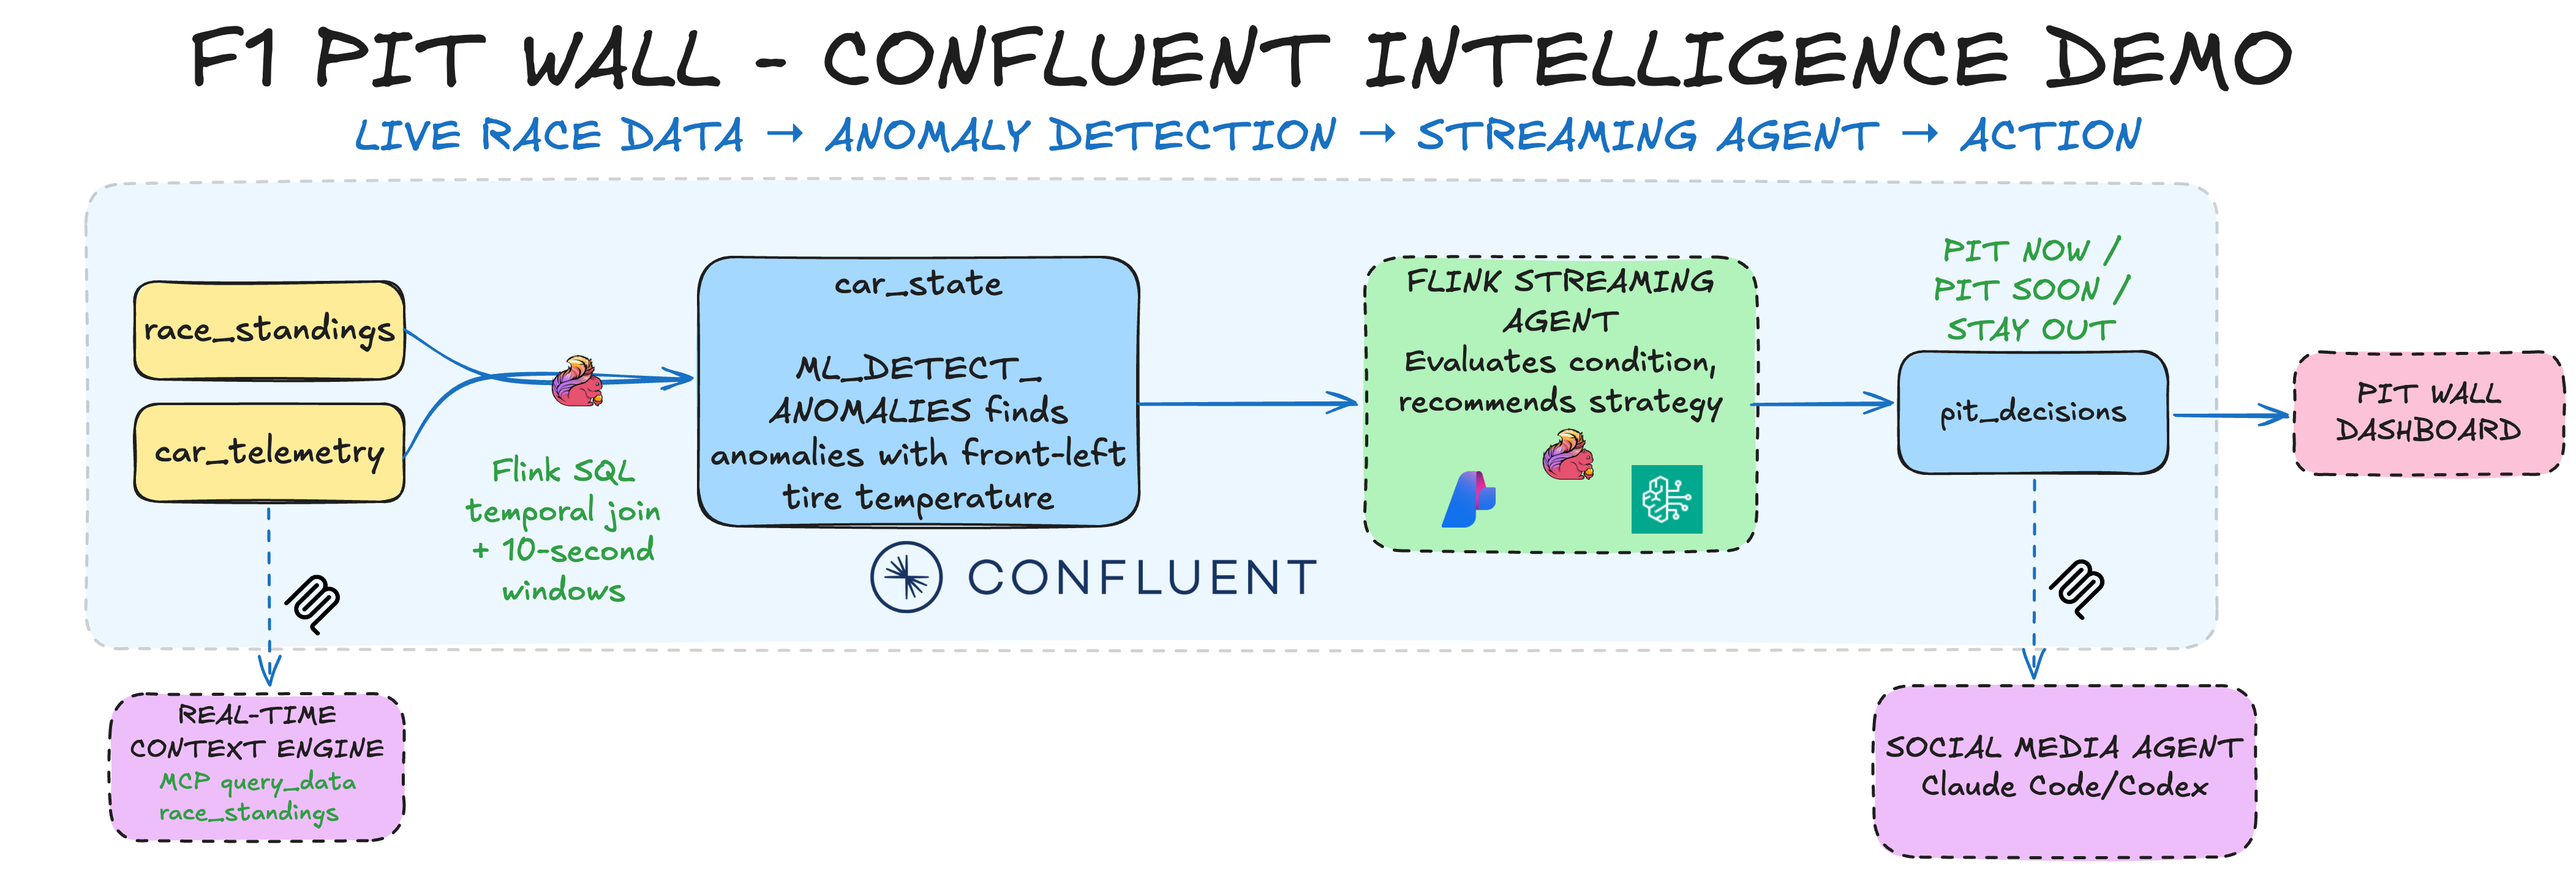
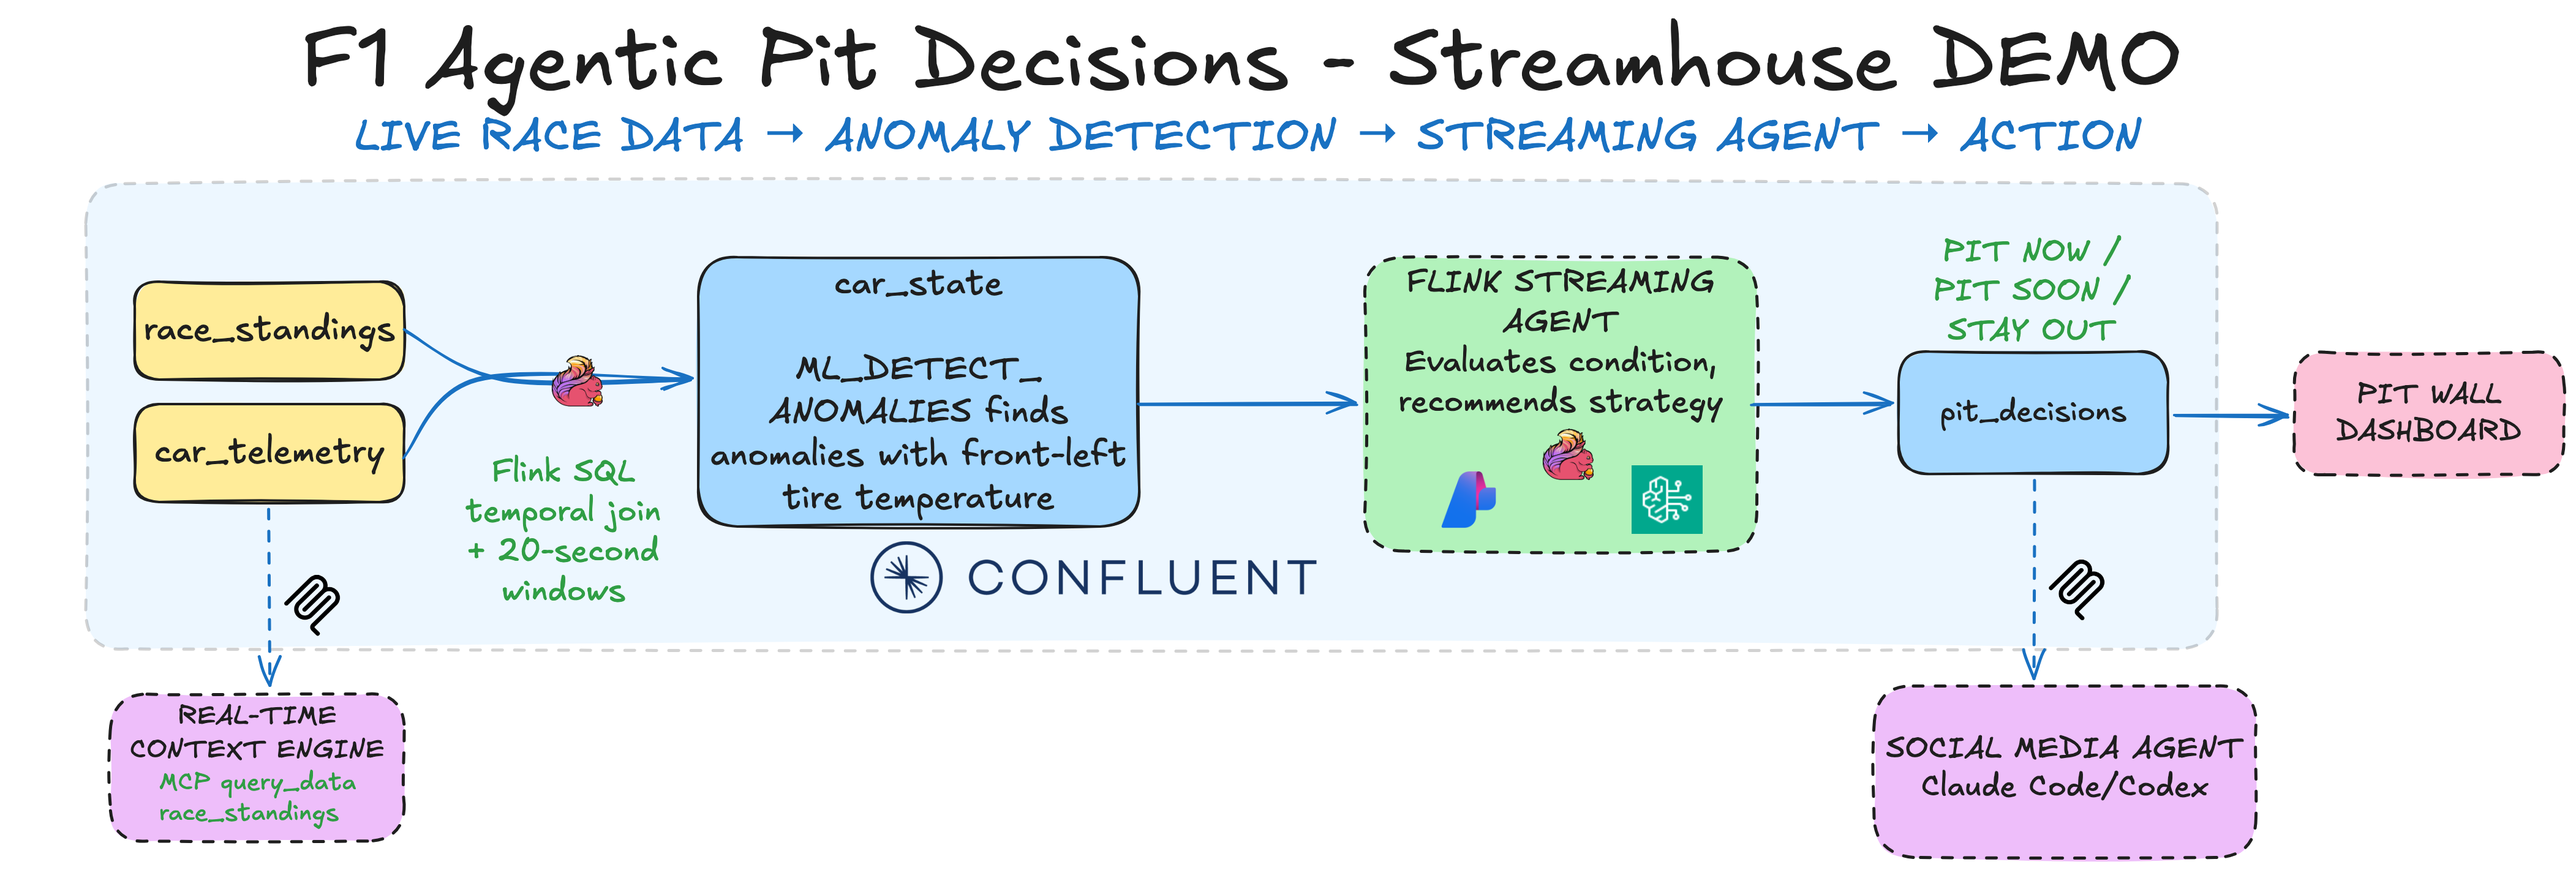
Rename the labs and tidy the Agentic Airline Operations workshop (#10)
* Drop the workshop's older RA417 map screenshot

The live telemetry screenshot right after it shows the same flight box with
the route and times, plus the telemetry attendees now see.

* Say where and why to run the RTCE connection step in Lab 4

* Point Lab 4 back to the Flink SQL workspace

* Move Lab 4's scope note to after the agent is created

By then attendees have seen the flight filter and the agent's SFO prompt
the note explains.

* Explain the three-flight filter next to impacted_passengers

* Drop the two start-agent screenshots from Lab 4

* Link the dashboard app in Lab 5

* Link Topics and name the environment and cluster in Lab 3

* Summarize the agent's prompt before its CREATE AGENT statement

* Title the labs Agentic Flight Disruptions and F1 Agentic Pit Decisions

* Rename the airline lab to Agentic Airline Operations

* Retitle both architecture diagrams with the new lab names

The airline diagram is now Agentic Airline Operations and the F1 one is
F1 Agentic Pit Decisions, both as Streamhouse demos. The F1 diagram's
car_state label now says 20-second windows, matching the SQL.

---------

diff --git a/docs/flight-disruptions/workshop.md b/docs/flight-disruptions/workshop.md
@@ -1,4 +1,4 @@
-# River Air Flight Recovery Workshop
+# River Air Agentic Airline Operations Workshop
 
 ![River Air flight recovery architecture](../images/flight-disruptions/architecture.png)
 
@@ -331,7 +331,7 @@ This is where River Air finally gets its answer to *"How many flights are delaye
 
 One click per topic does it. Enabling a topic's **Lightning Table** keeps a low-latency table of its latest rows that apps query directly, and the Real-Time Context Engine (RTCE) exposes the same table to AI agents over MCP. The dashboard you open in this lab and the recovery agent you build in Lab 4 read the same live state, each in the form it needs.
 
-1. Back in the Console, open your cluster's **Topics**. `passenger_state` and `flight_impact` are there now; we created them with Flink in Lab 2.
+1. Back in the Console, open **[Topics](https://confluent.cloud/go/topics)** and select your **environment** (`streamhouse-…-env`) and **cluster** (`streamhouse-…-cluster`). `passenger_state` and `flight_impact` are there now; we created them with Flink in Lab 2.
 
 2. Find the **Lightning Table** column (scroll right if you need to) and click **+ Enable** for `flight_status`.
 
@@ -379,7 +379,6 @@ One click per topic does it. Enabling a topic's **Lightning Table** keeps a low-
     - Click **RA417-…**. The seat map colors every seat red (at risk), green (not at risk), or grey (open). Hover a seat to see that passenger's itinerary. The table below lists RA417's passengers, `HIGH` first.
     - The flight's box on the map also shows **Live telemetry** that updates every second: altitude, speed, heading, position, and time to arrival.
 
-    <img src="../images/flight-disruptions/dashboard-flight-selection.png" alt="The live flight map with RA417 selected, showing its ORD to SFO route and late estimated arrival" width="750">
     <img src="../images/flight-disruptions/dashboard-live-telemetry.png" alt="RA417&#x27;s box on the live flight map with Live telemetry: altitude, ground speed, vertical speed, heading, position, miles to go, and time to arrival" width="750">
 
     RA417's seat map is in the top-right corner. Hover a seat to see that passenger's itinerary:
@@ -392,25 +391,19 @@ Now for River Air's second challenge. RA417 is running almost two hours late, 15
 
 In this lab, you build a streaming agent that runs inside Flink, on Claude hosted in Confluent Cloud. The moment a passenger turns HIGH risk, it checks live flights and hotel rooms through the Real-Time Context Engine (RTCE) and writes two rebooking offers: the next two flights to their final destination, with a hotel when the wait is overnight. No batch job, no polling, and no model keys to manage: the agent itself is a few SQL statements.
 
-> [!NOTE]
->
-> You could set up this agent for passengers connecting in any city. This workshop sets it up for SFO, River Air's hub, to keep the scope small.
->
-> For the same reason, the agent handles only three of today's delayed flights: RA417, RA183, and RA185, picked by the flight-number filter in `impacted_passengers` in step 2. It could handle every flight, but then RA417's offers would wait behind the rest of the day's delayed passengers. The data generator writes the other flights' offers.
-
-1. Connect Flink to RTCE. **In your terminal window in the `quickstart-streamhouse` folder**, run:
+1. Connect Flink to RTCE, so the agent can look up live flights and hotel rooms. In a terminal, from the repo's root folder (`quickstart-streamhouse`), run:
 
     ```bash
     uv run setup-rtce --agent-connection
     ```
 
-    It creates a Flink connection named `rtce-connection` that points at your cluster's RTCE endpoint and signs in with the API key in `credentials.env`, so no secret appears in your SQL.
+    It creates `rtce-connection`, which the agent's tool uses in step 3. The API key stays in the connection, so your SQL holds no secrets.
 
     <img src="../images/flight-disruptions/setup-rtce-agent-connection.png" alt="Output of uv run setup-rtce --agent-connection, confirming that the Flink connection rtce-connection points at the RTCE endpoint" width="750">
 
 2. Give the agent a feed of impacted passengers. `AI_RUN_AGENT` reads only append-only input, and `passenger_state` is an upsert table, so two staging tables turn its changes into new rows. 
 
-    **In your SQL Workspace**, run each statement in its own cell:
+    Back in your [Flink SQL workspace](https://confluent.cloud/go/flink), run each statement in its own cell:
 
     `passenger_state_changes` records every change to a passenger's connection risk as a new row:
 
@@ -443,7 +436,7 @@ In this lab, you build a streaming agent that runs inside Flink, on Claude hoste
     ```
     <img src="../images/flight-disruptions/passenger-state-changes-creation.png" alt="The passenger_state_changes statement, with Successfully created materialized table passenger_state_changes" width="750">
 
-    `impacted_passengers` keeps one row per passenger on RA417, RA183, and RA185, from the moment they first turn `HIGH` while their inbound flight is still due to land. This is the agent's to-do list (the generator writes offers for every other flight):
+    `impacted_passengers` keeps one row per passenger on RA417, RA183, and RA185, from the moment they first turn `HIGH` while their inbound flight is still due to land. This is the agent's to-do list:
 
     ```sql
     SET 'sql.local-time-zone' = 'UTC';
@@ -481,6 +474,10 @@ In this lab, you build a streaming agent that runs inside Flink, on Claude hoste
     ```
     <img src="../images/flight-disruptions/impacted-passengers-creation.png" alt="The impacted_passengers statement, with Successfully created materialized table impacted_passengers" width="750">
 
+    > [!NOTE]
+    >
+    > For this workshop only, the filter keeps the agent to three flights to reduce LLM requests. In production, you would open it up to all flights.
+
 3. Create the tool that gives the agent live context. It exposes RTCE's `getMetadata` and `queryData` tools through `rtce-connection`:
 
     ```sql
@@ -495,6 +492,11 @@ In this lab, you build a streaming agent that runs inside Flink, on Claude hoste
     <img src="../images/flight-disruptions/hotel-inventory-tool-creation.png" alt="The CREATE TOOL statement for hotel_inventory_live_context, Completed" width="750">
 
 4. Create the agent. Its model, `passenger_recovery_model`, is a Claude model hosted in Confluent Cloud. It's already deployed for you.
+
+    Its prompt tells it to:
+    - Offer the first two flights that leave 45+ minutes after the passenger lands.
+    - Add a hotel if the flight leaves 6+ hours later.
+    - Pick hotels in order, skipping sold-out ones.
 
     ```sql
     CREATE AGENT IF NOT EXISTS passenger_recovery_agent
@@ -522,14 +524,16 @@ In this lab, you build a streaming agent that runs inside Flink, on Claude hoste
     );
     ```
 
-    Its prompt has three rules: 1. Offer the first two departures to the passenger's destination at least 45 minutes after they land 2. Add a hotel when the flight leaves six or more hours later, and 3. Take hotels in order of preference, skipping any with no rooms left.
-
 5. Confirm the agent exists:
 
     ```sql
     SHOW AGENTS;
     ```
     <img src="../images/flight-disruptions/show-agents.png" alt="SHOW AGENTS results listing passenger_recovery_agent" width="750">
+
+> [!NOTE]
+>
+> You could set up this agent for passengers connecting in any city. This workshop sets it up for SFO, River Air's hub, to keep the scope small.
 
 6. Start the agent:
 
@@ -596,12 +600,6 @@ In this lab, you build a streaming agent that runs inside Flink, on Claude hoste
     WHERE recommended_flight_id IS NOT NULL;
     ```
 
-    <img src="../images/flight-disruptions/start-agent-1.png" alt="The first half of the INSERT INTO passenger_recommendations statement that runs the agent" width="750">
-
-    Scroll down in the cell to see the rest of the statement, now **Running**:
-
-    <img src="../images/flight-disruptions/start-agent-2.png" alt="The second half of the statement, now Running" width="750">
-
 > [!WARNING]
 >
 > This statement must keep running for the rest of the workshop. Don't stop it.
@@ -624,7 +622,7 @@ Now you see the recovery from the passenger's side. Some of the agent's offers i
 
 With a Streamhouse architecture, that's not an issue: River Air's app always has the current state of hotel availability. It checks the rooms left with a Lightning Query when a passenger selects an offer, swaps in another hotel if the room is gone, and checks again at booking.
 
-1. In the dashboard app, click the **RA417-…** flight, then click a delayed passenger's seat. **Scroll to Passenger recovery**, which shows their two offers. **These offers come from the agent you built!**
+1. In the [dashboard app](http://127.0.0.1:8000), click the **RA417-…** flight, then click a delayed passenger's seat. **Scroll to Passenger recovery**, which shows their two offers. **These offers come from the agent you built!**
 
 <img src="../images/flight-disruptions/dashboard-passenger-hotel-options.png" alt="Hotel options and Passenger recovery in the app, with the Grand Hyatt sold out and one passenger&#x27;s two offers" width="750">
 

diff --git a/README.md b/README.md
@@ -16,11 +16,11 @@ Build one on Confluent Cloud in either of these hands-on labs:
 <th width="75%">Description</th>
 </tr>
 <tr>
-<td><a href="./docs/flight-disruptions/workshop.md"><strong>Flight Disruptions</strong></a></td>
+<td><a href="./docs/flight-disruptions/workshop.md"><strong>Agentic Airline Operations</strong></a></td>
 <td>Rebook passengers in real time when a delay breaks their connections. A streaming agent recovers three delayed flights (RA417, RA183, and RA185) while hotel rooms sell out.<br><br><img src="./docs/images/flight-disruptions/architecture.png" alt="Flight Disruptions architecture diagram"></td>
 </tr>
 <tr>
-<td><a href="./docs/agentic-pit-decisions/walkthrough.md"><strong>Agentic Pit Decisions</strong></a></td>
+<td><a href="./docs/agentic-pit-decisions/walkthrough.md"><strong>F1 Agentic Pit Decisions</strong></a></td>
 <td>Call every F1 pit stop with anomaly detection and a streaming agent.<br><br><img src="./docs/images/agentic-pit-decisions/architecture.png" alt="Agentic Pit Decisions architecture diagram"></td>
 </tr>
 </table>
@@ -84,7 +84,7 @@ Deploy, and pick a lab (or both) when it asks:
 uv run deploy
 ```
 
-Then follow its guide: [Flight Disruptions](./docs/flight-disruptions/workshop.md) or [Agentic Pit Decisions](./docs/agentic-pit-decisions/walkthrough.md).
+Then follow its guide: [Agentic Airline Operations](./docs/flight-disruptions/workshop.md) or [F1 Agentic Pit Decisions](./docs/agentic-pit-decisions/walkthrough.md).
 
 > [!TIP]
 >

diff --git a/docs/agentic-pit-decisions/walkthrough.md b/docs/agentic-pit-decisions/walkthrough.md
@@ -1,4 +1,4 @@
-# Agentic Pit Decisions walkthrough
+# F1 Agentic Pit Decisions walkthrough
 
 ![Agentic Pit Decisions architecture](../images/agentic-pit-decisions/architecture.png)
 
